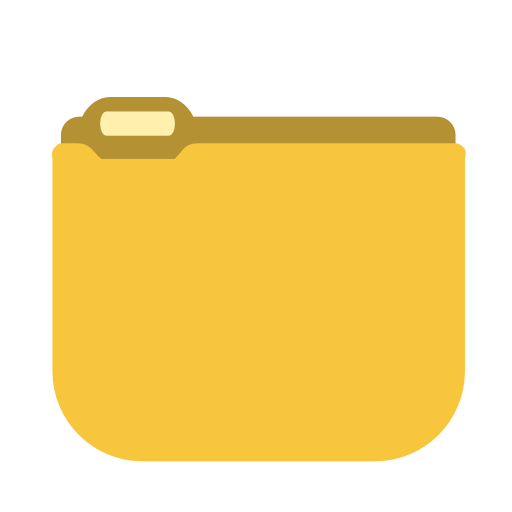
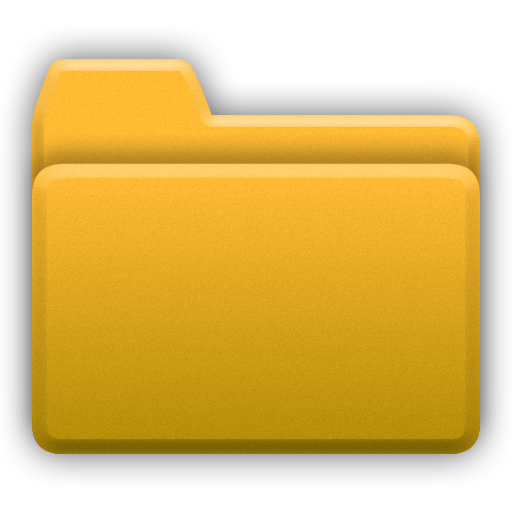
edit

diff --git a/equation_solver/templates/equation_index.html b/equation_solver/templates/equation_index.html
@@ -6,15 +6,15 @@
 {% load static %}
 {% block page_content %}
 <h1>Equations</h1>
-<div width="50" height="200" class="row">
+<div width="100" height="200" class="row">
 {% for equation in equations %}
     <div class="col-md-2">
         <div class="card mb-2">
           <a href="{% url 'deleteequation' equation.pk %}"
              class="btn btn-primary">
-            <img width="40" height="40" src = "http://simpleicon.com/wp-content/uploads/trash.png">
+            <img width="40" height="40" src = "{% static 'img/trash.png' %}">
           </a>
-            <img  class="card-img-top" src="https://raw.githubusercontent.com/openintents/filemanager/master/promotion/icons/ic_launcher_filemanager_512.png" %}">
+            <img  class="card-img-top" src="{% static 'img/folder.png' %}" %}">
             <div class="card-body">
                 <label> Name: </label>
                 <h5 class="card-title">{{ equation.name }}</h5>
@@ -26,6 +26,10 @@
             <a href="{% url 'equation_detail' equation.pk %}"
                class="btn btn-primary">
                 Open
+            </a>
+            <a href="{% url 'editequation' equation.pk %}"
+               class="btn btn-primary">
+                Edit
             </a>
         </div>
     </div>

diff --git a/equation_solver/templates/edit_equation.html b/equation_solver/templates/edit_equation.html
@@ -1,0 +1,23 @@
+<?xml version='1.0' encoding='UTF-8'?>
+<!DOCTYPE html PUBLIC '-//WAPFORUM//DTD XHTML Mobile 1.0//EN'
+'http://www.wapforum.org/DTD/xhtml-mobile10.dtd'>
+  <html xmlns='http://www.w3.org/1999/xhtml'>
+{% extends "base.html" %}
+{% load static %}
+{% block page_content %}
+
+<form action="{% url 'edit_equation' pk %}" method="POST">
+{% csrf_token %}
+Name : <input class="form-control"  type="text" value="{{name}}" name="name"/><br/>
+Equation : <input class="form-control" value="{{equation}}" name="equation"/><br/>
+Variables : <input class="form-control" value="{{variables}}" type="text" name="variables"/><br/>
+Result Variables : <input class="form-control" value="{{finalvars}}" type="text" name="finalvars"/><br/>
+Description : <input class="form-control" value="{{description}}" type="text" name="description"/><br/>
+<input class="form-control" value="{{ref}}" type="hidden" name="ref"/><br/>
+
+<button class="btn btn-primary" type = "submit" value = "Post">submit</button>
+</form>
+
+
+{% endblock %}
+</html>

diff --git a/equation_solver/templates/equation_folder.html b/equation_solver/templates/equation_folder.html
@@ -6,15 +6,15 @@
 {% load static %}
 {% block page_content %}
 <h1>Folders</h1>
-<div width="200" height="400" class="row">
+<div width="100" height="200" class="row">
 {% for folder in folders %}
     <div class="col-md-2">
         <div class="card mb-2">
           <a  align="right" href="{% url 'deletefolder' folder.pk %}"
              class="btn btn-primary">
-              <img width="40" height="40" src = "http://simpleicon.com/wp-content/uploads/trash.png">
+              <img width="40" height="40" src = "{% static 'img/trash.png' %}">
           </a>
-            <img  class="card-img-top" src="https://raw.githubusercontent.com/openintents/filemanager/master/promotion/icons/ic_launcher_filemanager_512.png" %}">
+            <img  class="card-img-top" src="{% static 'img/folder.png' %}" %}">
             <div class="card-body">
                 <h5 class="card-title">{{ folder.name }}</h5>
             </div>

diff --git a/equation_solver/templates/equation_detail.html b/equation_solver/templates/equation_detail.html
@@ -19,7 +19,7 @@
   {% csrf_token %}
   {% for variable in variables %}
   <label >{{variable}}</label>
-  <input  type="text" name="{{variable}}"/><br/>
+  <input  type="text" value= {{data}} name="{{variable}}"/><br/>
   {% endfor %}
   <button  class="btn btn-primary" type = "submit" value = "Post">solve</button>
 </form>

diff --git a/equation_solver/views.py b/equation_solver/views.py
@@ -3,7 +3,7 @@ from django.shortcuts import render
 from equation_solver.models import Equation_solver
 from equation_solver.models import Folder
 from equation_solver.equation import executeEq
-
+from django.http import HttpResponseRedirect
 
 def welcome(request):
     return render(request,'welcome.html',{})
@@ -94,9 +94,35 @@ def solve(request, pk):
         for i in variables[1:]:
             st += "," +  i + " = " + request.POST.get(i)
     res = executeEq(x.equation,st,x.finalvars)
+    data = request.POST.copy()
+    data = dict(data.lists())
+    print(data)
     context = {
         'equation': x,
         'variables': x.variables.split(","),
-        'result': str(res)
+        'result': str(res),
+        'data': data,
     }
     return render(request, 'equation_detail.html',context)
+def editequation(request,pk):
+    x = Equation_solver.objects.get(pk=pk)
+    context = {
+        'name' : x.name,
+        'equation' : x.equation,
+        'variables' : x.variables,
+        'finalvars' : x.finalvars,
+        'description' : x.description,
+        'pk' : pk,
+        'ref': request.META.get('HTTP_REFERER')
+    }
+    return render(request, 'edit_equation.html',context)
+
+def edit_equation(request,pk):
+    e = Equation_solver.objects.get(pk=pk)
+    e.name = request.POST.get('name')
+    e.equation = request.POST.get('equation')
+    e.variables = request.POST.get('variables')
+    e.finalvars = request.POST.get('finalvars')
+    e.description = request.POST.get('description')
+    e.save()
+    return HttpResponseRedirect(request.POST.get('ref'))

diff --git a/equation_solver/urls.py b/equation_solver/urls.py
@@ -10,4 +10,7 @@ urlpatterns = [
     path("createequation/<int:pk>/", views.createequation, name="createequation"),
     path("deleteequation/<int:pk>/", views.deleteequation, name="deleteequation"),
     path("solve/<int:pk>/", views.solve, name="solve"),
+    path("editequation/<int:pk>/",views.editequation,name="editequation"),
+    path("edit_equation/<int:pk>/",views.edit_equation,name="edit_equation"),
+
 ]
